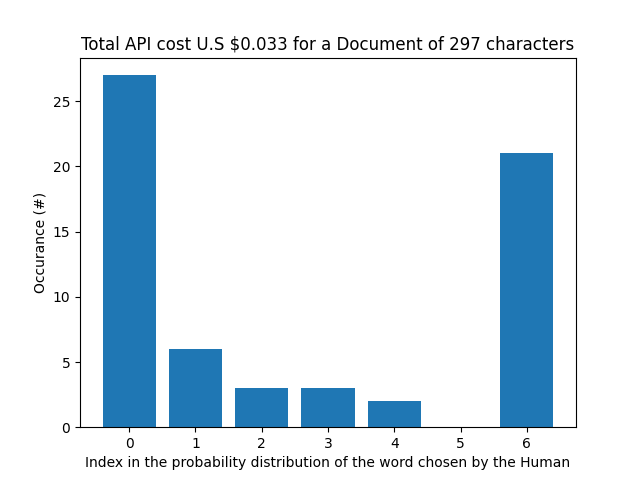
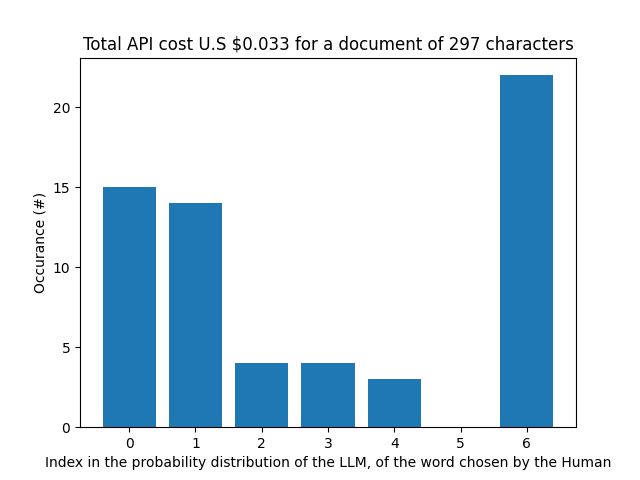
include gpt4o result

diff --git a/prototype.py b/prototype.py
@@ -8,7 +8,7 @@ from dotenv import load_dotenv
 import matplotlib.pyplot as plt
 
 input_tokens = output_tokens = 0
-price_per_token = 0.000012
+price_per_token = 0.000012 # 12$/1M Input & Output Token for davinci-002
 
 encoder = tiktoken.encoding_for_model("text-davinci-002")
 
@@ -23,7 +23,6 @@ TOKEN_TO_CONSIDER = 7
 with open(FILE_NAME, "r") as file:
     lines = file.readlines()
     raw = "".join(lines)
-    number_char = len(raw)
 
 raw_tokens = encoder.encode(raw)
 
@@ -54,7 +53,6 @@ def iterative_word_predition(raw_tokens, encoder):
         output_tokens += 1
         logprobs = response.choices[0].logprobs.top_logprobs
         next_word_log_probs = logprobs[0]
-        # print(next_word_log_probs, len(next_word_log_probs))
         # iterate through the ordered list of the most probable next words
         index = 0
         found_token = False
@@ -82,11 +80,11 @@ x_labels = list(range(len(word_selection_distribution)))
 plt.bar(x_labels, word_selection_distribution, tick_label=x_labels)
 
 # Adding title and labels
-plt.xlabel("Index in the probability distribution of the word chosen by the Human")
+plt.xlabel("Index in the probability distribution of the LLM, of the word chosen by the Human")
 plt.ylabel("Occurance (#)")
 request_cost = (input_tokens + output_tokens) * price_per_token
 plt.title(
-    f"Total API cost U.S ${round(request_cost, 3)} for a document of {number_char} characters"
+    f"Total API cost U.S ${round(request_cost, 3)} for a document of {len(raw)} characters"
 )
 
 # Display the plot

diff --git a/README.md b/README.md
@@ -38,7 +38,7 @@ Short human-generated text (```./data/human-input-small.txt```):
 
 - GPT-4o generated text ( ```./data/gpt4o-input.txt```):
 
-![](results/result_plot-gpt4o-input-small.png)
+![](results/result_plot-gpt4o-input.png)
 
 ## Evaluation Data
 
@@ -56,4 +56,6 @@ For instance, ```./data/gpt4o-input.txt```, indicates a text file written by the
 
 - [ ] ```davinci-002``` is one of the most expensive models, priced at 12$/ 1M input and output tokens.
 
-- [ ] ```python ./prototype.py ./data/gpt4o-input.txt``` yields a bug which needs to be fixed.
+- [ ] Frequencies shall be normalised over the length of the document
+
+- [ ] Output is not deterministic, can we make the Open AI API reproducible?
